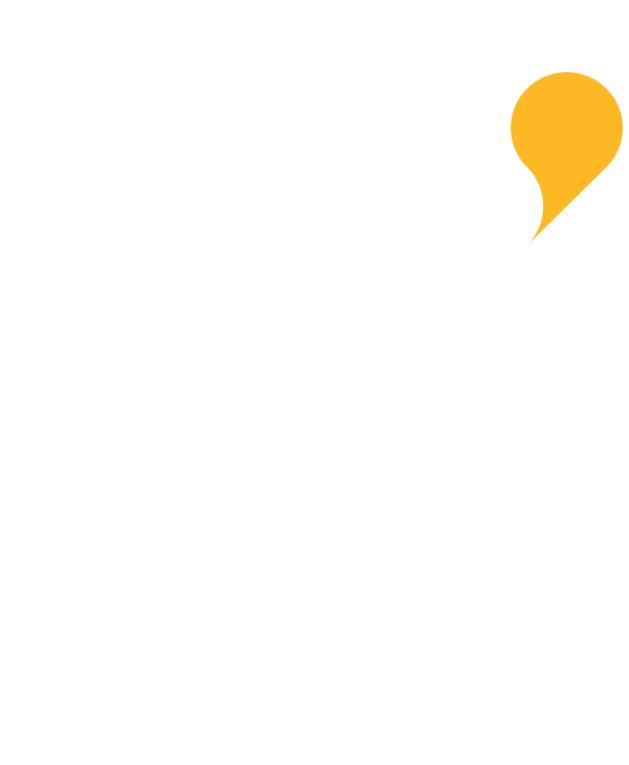
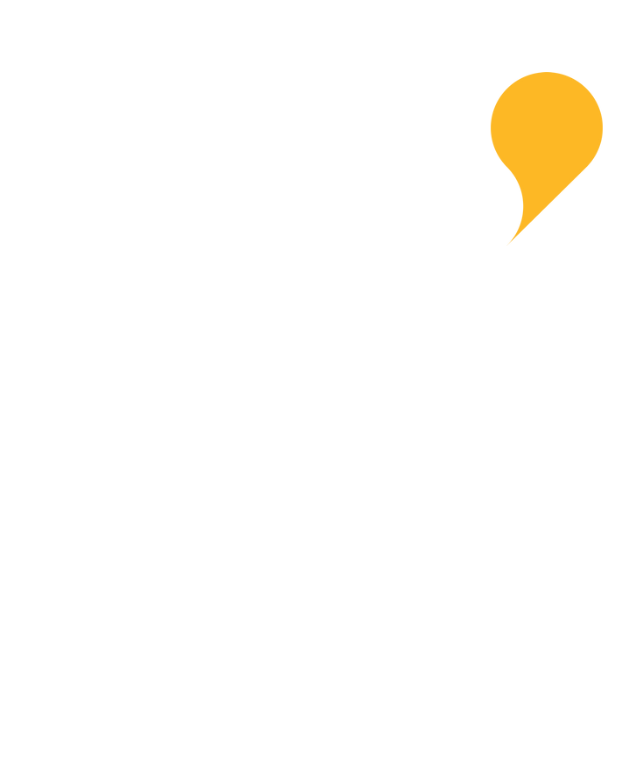
1
1

Changed region(s): [[0.7552, 0.0902, 0.9968, 0.3307]]

diff --git a/styles/main.css b/styles/main.css
@@ -3903,9 +3903,10 @@ code::after {
 }
 
 .appointment-right {
-  background-image: url("../images/home/appointment_bg.png"); 
+    background-image: url(../images/home/appointment_bg.png);
+    background-position: top right;
+    background-repeat: no-repeat;
 }
-
 
 .form-control-orange {
     height: 45px;
@@ -5084,6 +5085,10 @@ code::after {
   
 
 @media (width <= 540px) {
+    .btn-green-large{
+      padding-left: 1.25rem;
+      padding-right: 1.25rem;
+    }
     .section {
       padding-top: 2rem;
       padding-bottom: 2rem;
